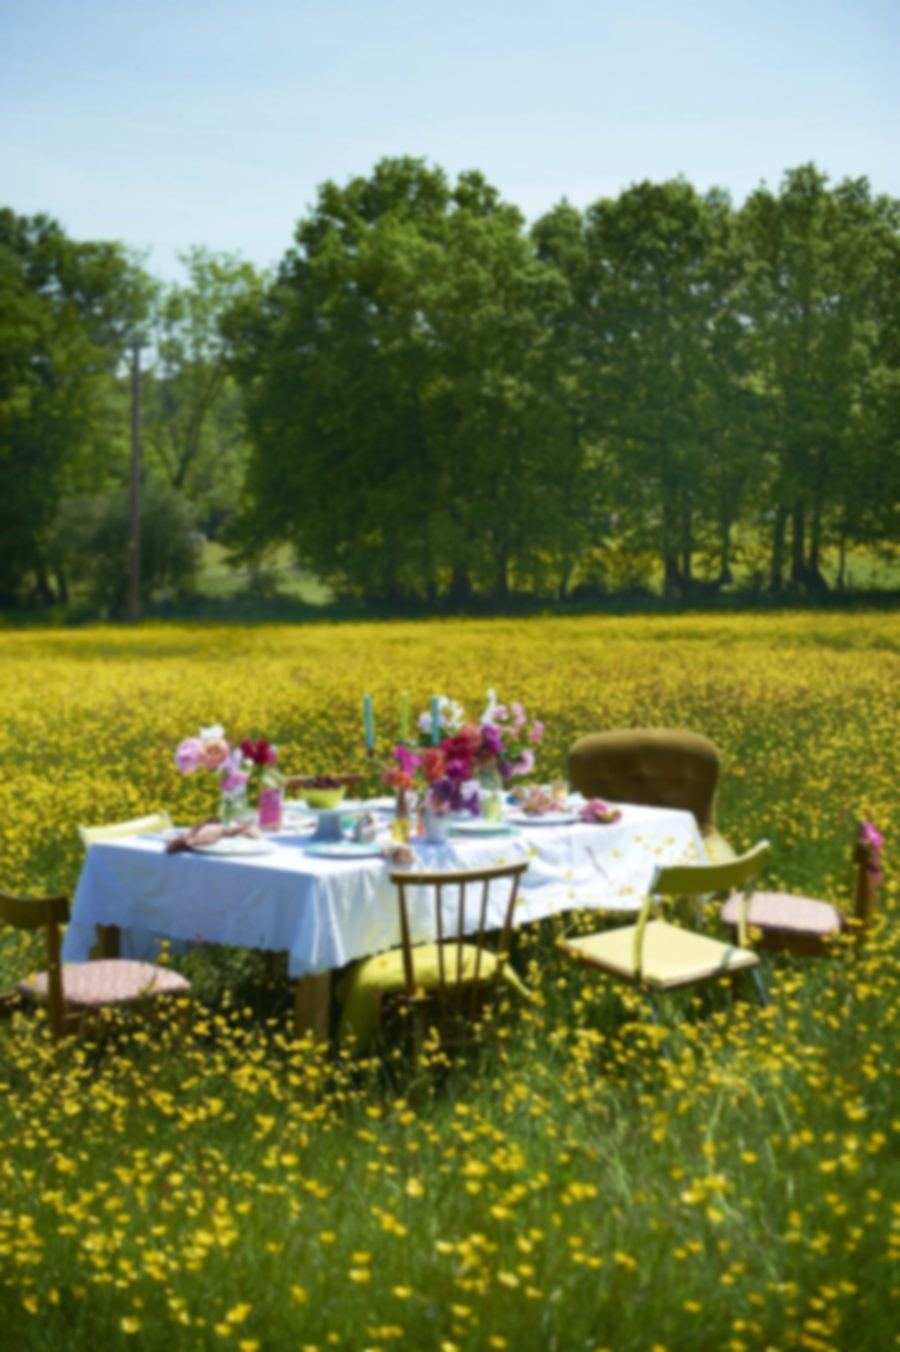
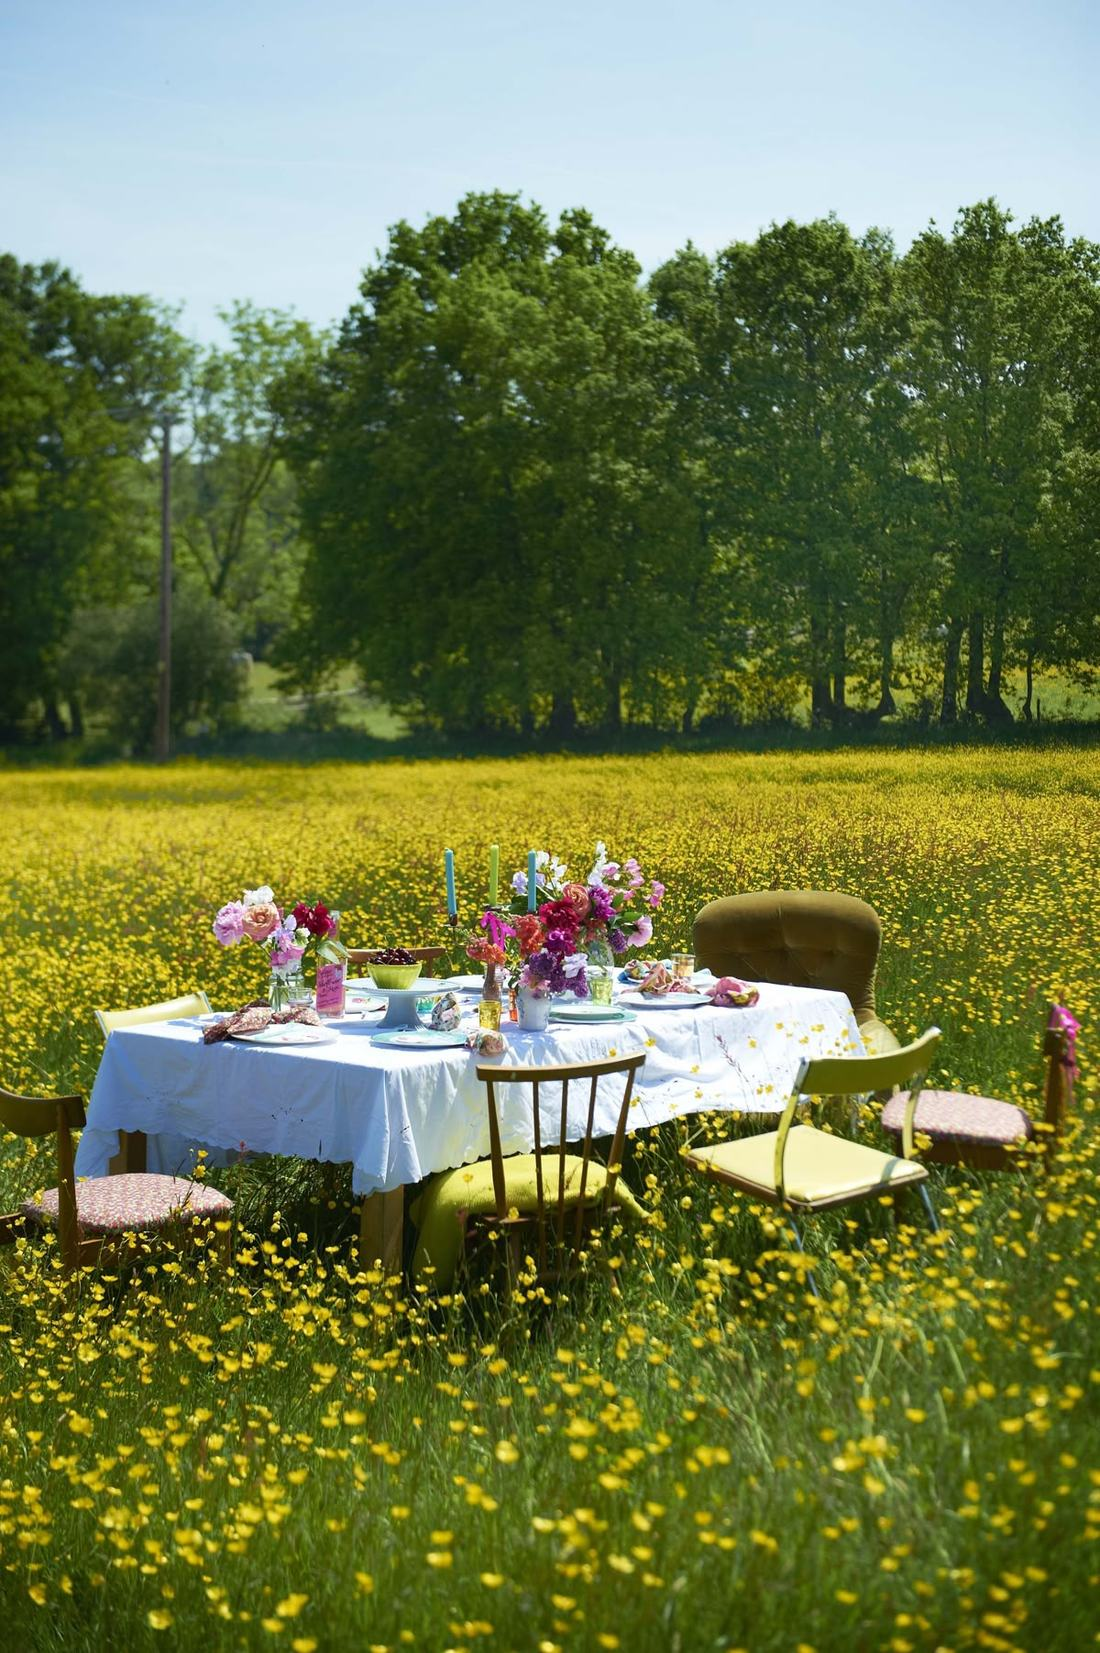
DOC: reduce background blur further, sharper photo
Blur down again (18px/20px -> 9px/11px) so grass and flower detail
reads clearly, not just color. Re-shipped bg.jpg without pre-blur at
higher resolution (1100px) since less CSS blur exposes softness in
the underlying file.

diff --git a/DOC/index.html b/DOC/index.html
@@ -97,14 +97,14 @@
 
   /* the photograph. drop any bg.jpg into public/ and it takes over automatically. */
   .photo{position:absolute; inset:-8%; background:center/cover no-repeat url("bg.jpg");
-    filter:blur(18px) saturate(126%); transform:scale(1.14);
+    filter:blur(9px) saturate(126%); transform:scale(1.14);
     opacity:0; transition:opacity .9s var(--ease)}
   body.has-photo .photo{opacity:1}
   body.has-photo .ink{opacity:.2}                  /* colour still shifts with depth, softly */
   body.has-photo .grain{opacity:.26}
-  body.has-photo .photo{filter:blur(18px) saturate(140%) contrast(104%)}
+  body.has-photo .photo{filter:blur(9px) saturate(134%) contrast(103%)}
   body.has-photo .bg::after{background:radial-gradient(130% 82% at 50% 42%, hsl(var(--bg)/.06) 20%, hsl(var(--bg)/.5) 100%)}
-  [data-theme="dark"] body.has-photo .photo{filter:blur(20px) saturate(122%) brightness(.5)}
+  [data-theme="dark"] body.has-photo .photo{filter:blur(11px) saturate(118%) brightness(.52)}
   [data-theme="dark"] body.has-photo .bg::after{background:radial-gradient(130% 82% at 50% 42%, hsl(var(--bg)/.4) 16%, hsl(var(--bg)/.88) 100%)}
   .grain{
     position:absolute; inset:0; opacity:.42; mix-blend-mode:overlay;

diff --git a/DOC/sw.js b/DOC/sw.js
@@ -1,4 +1,4 @@
-const CACHE = "deck-of-chem-v4";
+const CACHE = "deck-of-chem-v5";
 // paths are relative to this script's own URL (/DOC/sw.js) — a leading "/"
 // would resolve to the domain root, one level above where this app actually lives.
 const SHELL = ["./", "cards.js", "icon.svg", "manifest.json", "bg.jpg"];
